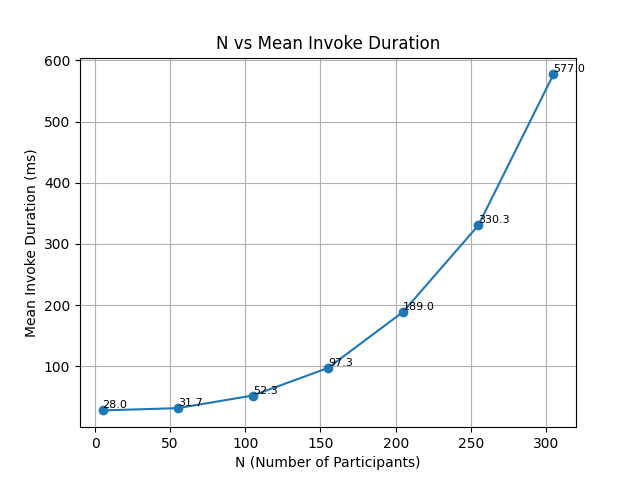
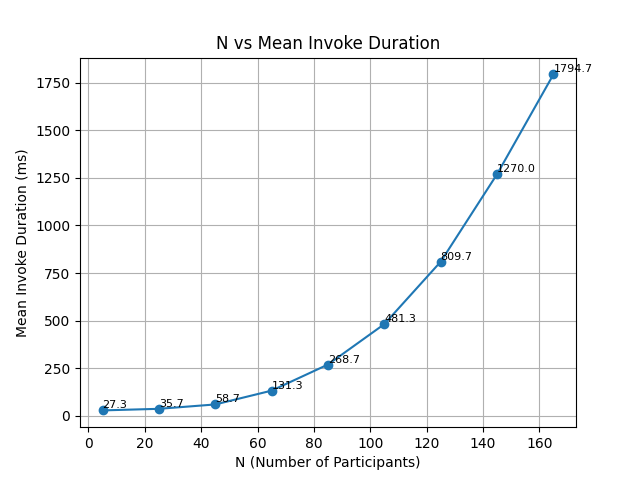
finish FSM

diff --git a/Experiment/petri-stateCharts/FSM/chaincode-go/chaincode/smartcontract.go b/Experiment/petri-stateCharts/FSM/chaincode-go/chaincode/smartcontract.go
@@ -18,6 +18,8 @@ type FSMState string
 
 type FSMData struct {
 	CurrentState FSMState `json:"current_state"`
+	PDone        bool     `json:"p_done"`
+	K            int      `json:"k"`
 }
 
 type TransitionTable map[string]map[string]string
@@ -45,18 +47,16 @@ func (s *SmartContract) InitProcess(ctx contractapi.TransactionContextInterface,
 		return fmt.Errorf("failed to put transition table to state: %v", err)
 	}
 
-	initial := &FSMData{CurrentState: FSMState("Init")}
+	initial := &FSMData{CurrentState: FSMState("Init"), PDone: false, K: kInt}
 	return putFSMState(ctx, initial)
 }
 
-// 标记参与者完成
 func (s *SmartContract) MarkDone(ctx contractapi.TransactionContextInterface, participantID string) error {
 	state, err := getFSMState(ctx)
 	if err != nil {
 		return err
 	}
 
-	// 获取 transitionTable
 	tableBytes, err := ctx.GetStub().GetState("TransitionTable")
 	if err != nil || tableBytes == nil {
 		return fmt.Errorf("transition table not found")
@@ -80,6 +80,23 @@ func (s *SmartContract) MarkDone(ctx contractapi.TransactionContextInterface, pa
 	}
 
 	state.CurrentState = FSMState(next)
+
+	// 判断是否为最终状态
+	if next == "Completed" || strings.HasSuffix(next, "_Done") {
+		// 统计 _Done 出现的数量
+		parts := strings.Split(next, "_")
+		doneCount := 0
+		for _, p := range parts {
+			if p != "Done" {
+				doneCount++
+			}
+		}
+		// 如果状态为 Completed 或者有 K 个 _Done，则 p_done = true
+		if next == "Completed" || doneCount >= state.K { // 你可以根据实际K值调整判断
+			state.PDone = true
+		}
+	}
+
 	return putFSMState(ctx, state)
 }
 
@@ -91,7 +108,7 @@ func (s *SmartContract) QueryStatus(ctx contractapi.TransactionContextInterface)
 	}
 	result := map[string]interface{}{
 		"current_state": state.CurrentState,
-		"p_done":        state.CurrentState == "Completed",
+		"p_done":        state.PDone,
 	}
 	jsonBytes, err := json.Marshal(result)
 	if err != nil {

diff --git a/Experiment/petri-stateCharts/stateCharts/chaincode-go/chaincode/smartcontract.go b/Experiment/petri-stateCharts/stateCharts/chaincode-go/chaincode/smartcontract.go
@@ -20,17 +20,20 @@ type TaskState struct {
 }
 
 // 初始化 Task
-func (s *SmartContract) InitProcess(ctx contractapi.TransactionContextInterface, participantsJSON string, k string) error {
-	var participants []string
-	if err := json.Unmarshal([]byte(participantsJSON), &participants); err != nil {
-		return fmt.Errorf("invalid participants input: %v", err)
+func (s *SmartContract) InitProcess(ctx contractapi.TransactionContextInterface, n string, k string) error {
+	nInt, err := strconv.Atoi(n)
+	if err != nil {
+		return fmt.Errorf("invalid n input: %v", err)
 	}
-
 	kInt, err := strconv.Atoi(k)
 	if err != nil {
 		return fmt.Errorf("invalid k input: %v", err)
 	}
 
+	participants := make([]string, nInt)
+	for i := 0; i < nInt; i++ {
+		participants[i] = fmt.Sprintf("P%d", i)
+	}
 	doneMap := make(map[string]bool)
 	for _, p := range participants {
 		doneMap[p] = false

diff --git a/Experiment/petri-stateCharts/readme.md b/Experiment/petri-stateCharts/readme.md
@@ -3,3 +3,4 @@
  ./network.sh up
  ./network.sh createChannel
  ./network.sh deployCC -ccn basic -ccp /home/shenxz-lab/code/ChainCollab/Experiment/petri-stateCharts/petriNet/chaincode-go -ccl go
+ bash test.sh | tee result.txt
